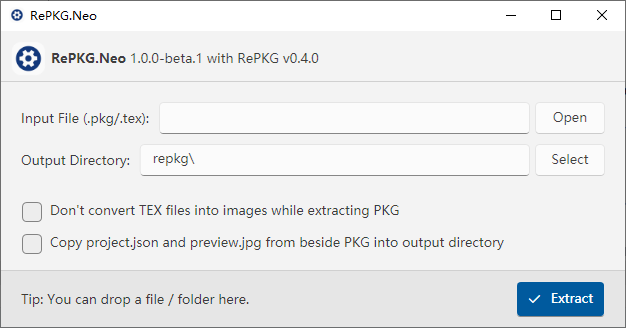
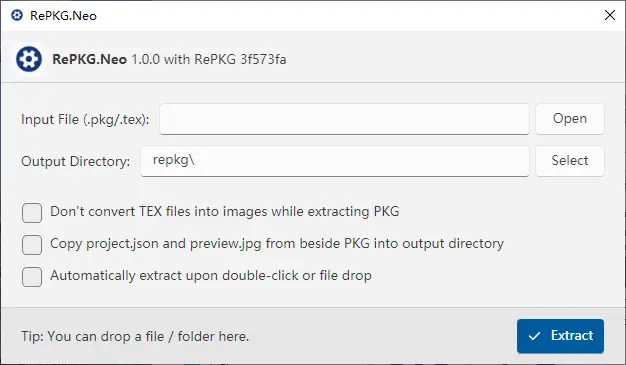
feat: Update readme

diff --git a/README_zh.md b/README_zh.md
@@ -26,7 +26,7 @@
 >
 > RePKG.Neo 支持中文。如果你的系统语言配置为 `zh-CN`，应该能看到中文的界面。
 
-![screenshot](https://raw.githubusercontent.com/masterLazy/RePKG.Neo/refs/heads/master/img/screenshot.webp)
+![screenshot](https://raw.githubusercontent.com/masterLazy/RePKG.Neo/refs/heads/master/img/screenshot_zh.webp)
 
 > 下面的部分来自 RePKG 的原始 README。
 >